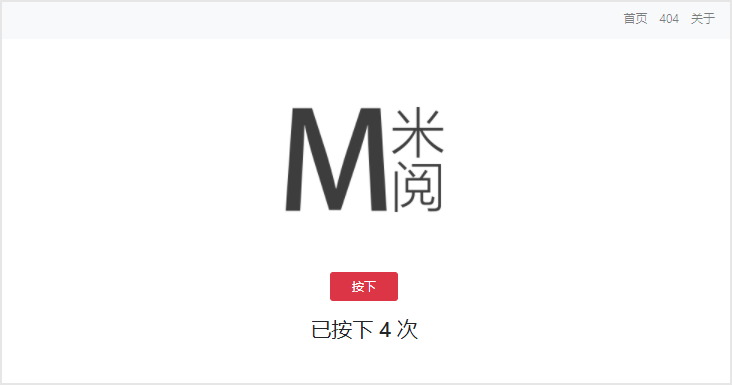
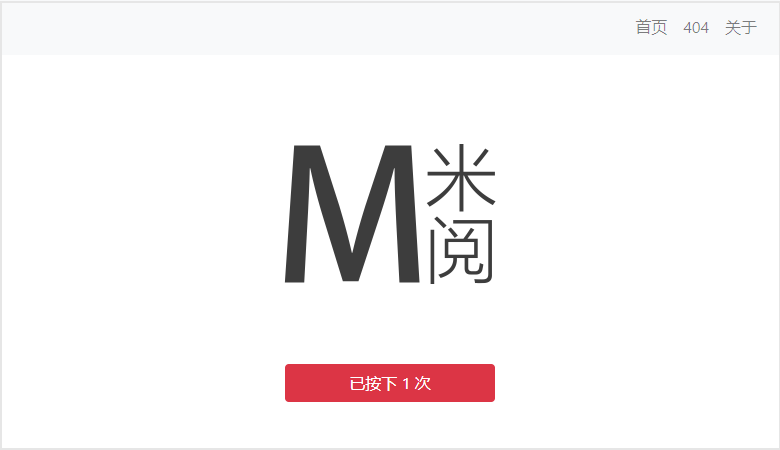
Add: fix mobile

diff --git a/web/src/pages/Home.vue b/web/src/pages/Home.vue
@@ -4,17 +4,11 @@
     <b-img center :src="this.logoImg" alt="Logo image" id="logo"></b-img>
     <div class="container">
       <div class="row">
-        <div class="col-5"></div>
-        <div class="col-2">
+        <div class="col-1 col-sm-2 col-md-4"></div>
+        <div class="col-10 col-sm-8 col-md-4">
           <b-button @click="click()" variant="danger" style="width: 100%">
-            按下
+            已按下 {{ count }} 次
           </b-button>
-        </div>
-      </div>
-      <div class="row">
-        <div class="col-4"></div>
-        <div class="col-4" id="counter">
-          <h3>已按下 {{ count }} 次</h3>
         </div>
       </div>
     </div>

diff --git a/web/src/pages/About.vue b/web/src/pages/About.vue
@@ -13,7 +13,7 @@
         <div class="col-8">
           <h5 style="margin-top: 30px; text-align: center">
             <strong>Mirage Starter Kit</strong> 是基于
-            <em>Vue.js ，Bootstrap ，Express ，Sequelize</em>
+            <em style="color:#666">Vue.js ，Bootstrap ，Express ，Sequelize</em>
             构建网络应用的项目模板。
           </h5>
         </div>

diff --git a/web/src/pages/NotFound.vue b/web/src/pages/NotFound.vue
@@ -3,8 +3,8 @@
     <Navbar></Navbar>
     <div class="container">
       <div class="row">
-        <div class="col-4"></div>
-        <div class="col-4">
+        <div class="col-2 col-sm-4 col-md-4"></div>
+        <div class="col-8 col-sm-4 col-md-4">
           <h1 style="margin-top: 20vh; text-align: center">404</h1>
         </div>
       </div>
